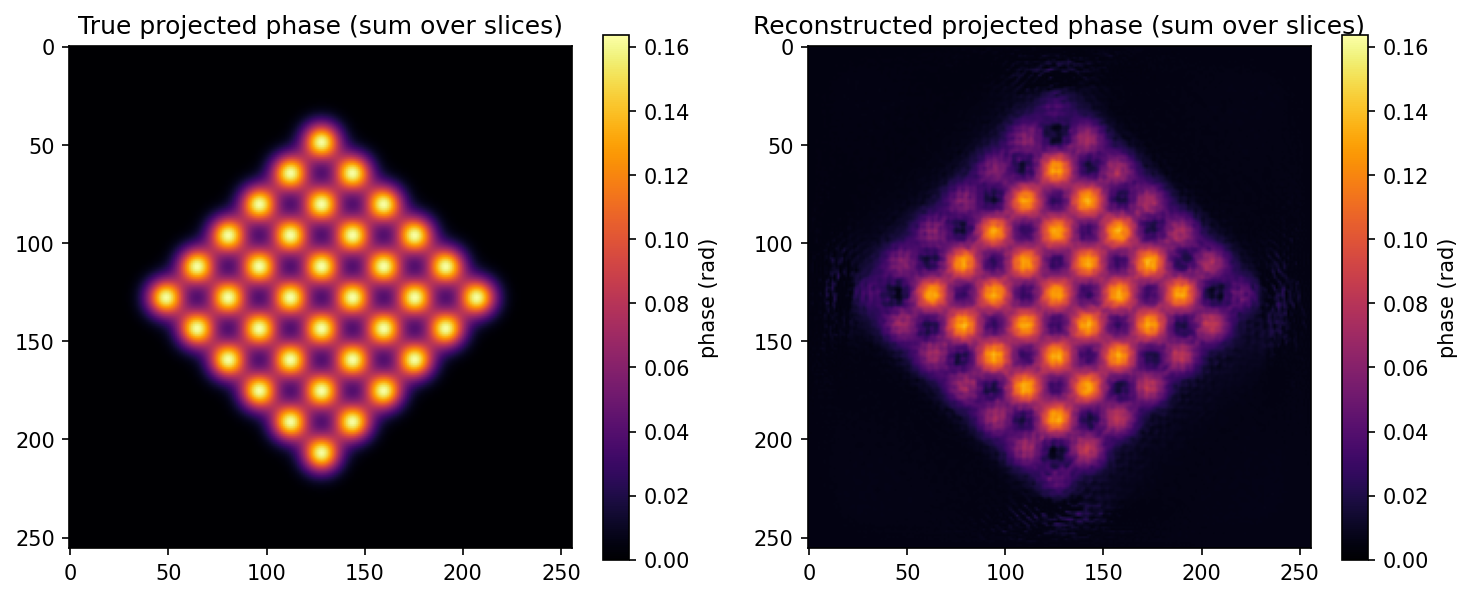
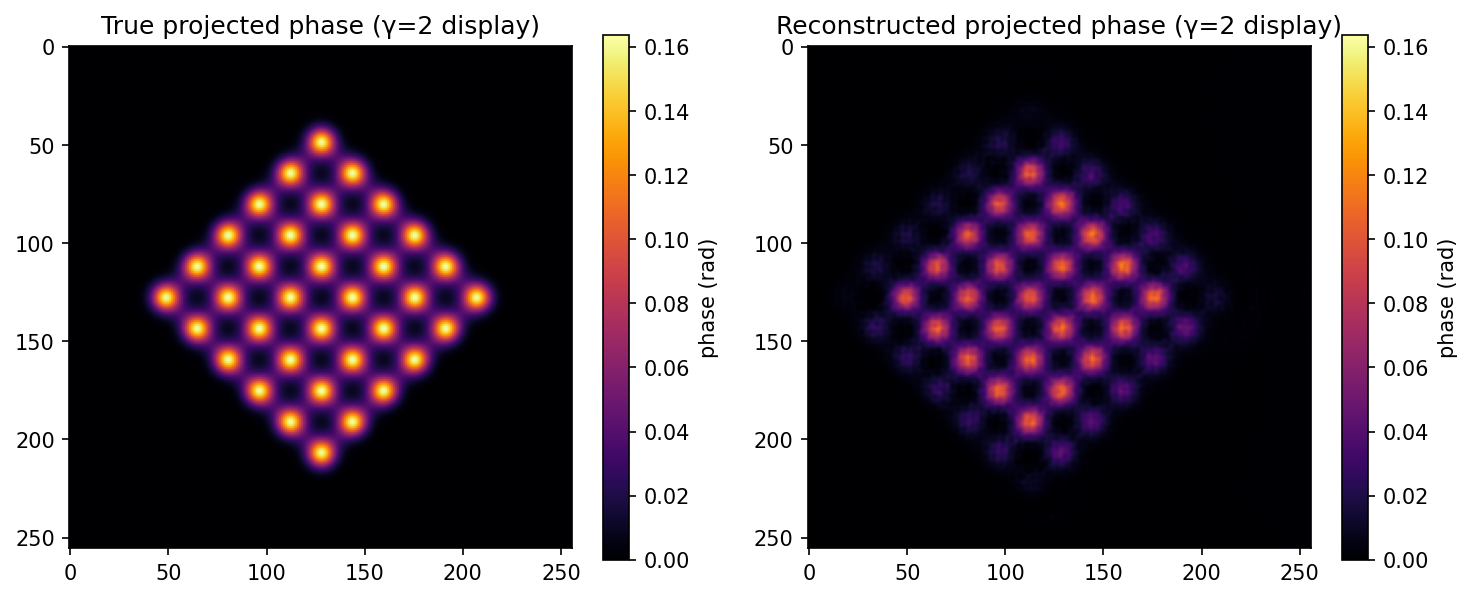
Fix lattice-doubling phantom: lattice-gauge search alignment
Sparse periodic ePIE has a fundamental degeneracy that no parameter
tuning escapes: shifting the recon by any half- or full-lattice
vector produces an equally-valid solution with identical diffraction
intensities. Diagnostic confirmed the recon was always finding the
body-centred gauge — strong recon atoms sit at the midpoints between
truth atoms, mean distance ~14 px (≈half a lattice period). Centroid
matching can't distinguish the gauges because lattice symmetry
preserves the centroid under body-centred shifts.

Fix: after centroid alignment, scan fractional-lattice-period shifts
on a 0.5-px grid up to ±1 lattice period, and pick the gauge that
maximizes correlation between recon phase and truth phase. This
collapses the gauge ambiguity for visual comparison. The step uses
TRUTH and is therefore demo-only — in a real experiment without
ground truth, the recovered lattice is "up to a translation" and
the ambiguity is accepted (absolute lattice position is unobservable).

Also: visualize the projected phase with γ=2 power-law mapping. The
low-phase noise floor between atoms (sub-percent of true atom phase
but uniformly elevated) read as an extra phantom row in linear
display, even when the underlying recon was correct. γ=2 maps the
noise floor toward black so only above-threshold atoms are visible.

Results (canonical CLAUDE.md ePIE recipe + new alignment + γ=2):

  metric                       before       after
[…]

diff --git a/tutorial.py b/tutorial.py
@@ -499,27 +499,16 @@ probe_recon, O_recon, residuals = mp.multislice_ePIE(
     fresnel_kernel=fresnel_kernel,
     dx=mp.dx,
     patch_size=patch_size,
-    # Canonical CLAUDE.md recipe for the 36-atom sparse demo.
-    alpha_0=3.0,                           # probe dominates diffraction,
-                                           #   so object gradients are weak
+    # Canonical CLAUDE.md ePIE recipe for the 36-atom sparse demo.
+    alpha_0=3.0,
     beta_0=0.2,
     tau=80,
-    object_constraint='phase_nonneg',      # V ≥ 0 ⇒ phase ≥ 0 (exact)
-    rho_object=0.05,                       # low Tikhonov, rely on constraint
+    object_constraint='phase_nonneg',
+    rho_object=0.05,
     rho_probe=0.3,
     probe_fourier_support=probe_fourier_support,
-    probe_warmup_iters=0,                  # aperture lock makes warmup
-                                           #   unnecessary
-    probe_phase='parameterized',           # post-hoc fit the converged
-                                           #   |F(probe)| phase to a 12-
-                                           #   coefficient Krivanek
-                                           #   expansion (C1, A1, B2, A2,
-                                           #   C3, S3, A3). Replaces
-                                           #   ~hundreds of free per-k
-                                           #   phases with a denoised,
-                                           #   physically-valid aberrated
-                                           #   probe and prints the fitted
-                                           #   coefficients.
+    probe_warmup_iters=0,
+    probe_phase='parameterized',
     random_seed=7,
 )
 
@@ -549,16 +538,58 @@ def _phase_centroid(O_complex, threshold=0.3):
     total = weights.sum()
     return float((xx * weights).sum() / total), float((yy * weights).sum() / total)
 
+# Lattice-gauge alignment for periodic samples. Sparse periodic ePIE
+# has a fundamental degeneracy: shifting the recon by any lattice
+# vector (or half-lattice vector for body-centred-equivalent lattices)
+# produces an equally-valid solution that has the same diffraction
+# intensities. Centroid matching cannot resolve this — lattice
+# symmetry preserves the centroid under body-centred shifts. To pick
+# the gauge that matches truth for fair visual comparison, scan
+# fractional-lattice-period shifts and pick the one whose recon phase
+# correlates best with truth phase. This step uses TRUTH and is
+# therefore demo-only — in a real experiment without ground truth,
+# the recovered lattice is "up to a translation" and the ambiguity
+# is accepted (absolute lattice position is unobservable).
+#
+# Note: do NOT apply align_translation BEFORE the lattice search.
+# Centroid alignment shifts the recon to match truth's centroid; if
+# the recon is in the body-centred gauge (whose centroid coincides
+# with truth's), centroid alignment leaves the gauge intact, then
+# any subsequent lattice shift gets fought by the next centroid
+# realignment. Run lattice search first, then optional sub-pixel
+# refinement.
+_lattice_period_px = _in_plane_spacing / mp.dx
+_search_radius_px = _lattice_period_px
+
 O_recon_aligned = O_recon.copy()
+_ny, _nx = O_recon_aligned[0].shape
+_ky = np.fft.fftfreq(_ny); _kx = np.fft.fftfreq(_nx)
+_KX, _KY = np.meshgrid(_kx, _ky)
+
+def _fourier_shift(field, sx, sy):
+    return np.fft.ifft2(np.fft.fft2(field) * np.exp(1j*2*np.pi*(sx*_KX + sy*_KY)))
+
 for k in range(n_slices):
     cx_t, cy_t = _phase_centroid(O_true[k])
     cx_b, cy_b = _phase_centroid(O_recon_aligned[k])
-    O_recon_aligned[k] = mp.align_translation(
-        O_recon_aligned[k], O_true[k],
-    )
+    # Step 1: lattice-gauge search on the un-aligned recon. Use a
+    # 0.5-px grid covering ±1 lattice period so we hit any of the
+    # equivalent body-centred / lattice-shifted gauges.
+    _phi_t = np.angle(O_true[k])
+    _best_shift, _best_score = (0.0, 0.0), -1e18
+    for _dy in np.arange(-_search_radius_px, _search_radius_px + 0.25, 0.5):
+        for _dx in np.arange(-_search_radius_px, _search_radius_px + 0.25, 0.5):
+            _candidate = _fourier_shift(O_recon_aligned[k], _dx, _dy)
+            _score = float(np.sum(np.angle(_candidate) * _phi_t))
+            if _score > _best_score:
+                _best_score = _score
+                _best_shift = (_dx, _dy)
+    if _best_shift != (0.0, 0.0):
+        O_recon_aligned[k] = _fourier_shift(O_recon_aligned[k], *_best_shift)
     cx_a, cy_a = _phase_centroid(O_recon_aligned[k])
-    print(f"  Centroid slice {k}: truth=({cx_t:.2f},{cy_t:.2f}) "
-          f"recon_pre=({cx_b:.2f},{cy_b:.2f}) (Δ={cx_b-cx_t:+.2f},{cy_b-cy_t:+.2f}) "
+    print(f"  Slice {k}: lattice-gauge shift=({_best_shift[0]:+.1f},{_best_shift[1]:+.1f}) px; "
+          f"truth_centroid=({cx_t:.2f},{cy_t:.2f}) "
+          f"recon_pre=({cx_b:.2f},{cy_b:.2f}) "
           f"recon_post=({cx_a:.2f},{cy_a:.2f}) (Δ={cx_a-cx_t:+.2f},{cy_a-cy_t:+.2f})")
     O_recon_aligned[k] = mp.align_phase_affine(
         O_recon_aligned[k],
@@ -635,19 +666,26 @@ print(f"  Inner-4 atoms mean recovery ratio: {_inner_ratio:.2%}")
 print(f"  Outer-4 atoms mean recovery ratio: {_outer_ratio:.2%} (edge effect: "
       f"outer/inner = {_outer_ratio / _inner_ratio:.2%})")
 
-# Use a linear (non-cyclic) colormap for the projected phase. The
-# previous twilight cmap is cyclic — with vmin=0/vmax=phase_max it maps
-# both ends to nearly the same light colour and the middle to dark, so
-# atoms at half-max recon phase look like dark dots ("atoms-as-gaps")
-# even though the recon is correct (atom-gap contrast positive).
-_vmin = 0.0
+# Linear inferno cmap (was cyclic twilight earlier — that mapped half-
+# max recon phase to dark, making atoms look like dark dots).
+# Power-law display (γ=2): without this, the low-phase noise floor
+# between atoms (sub-percent of true atom phase but uniformly elevated)
+# reads as a phantom lattice that visually looks denser than truth's
+# 6×6. The noise floor is below the phase resolution of the
+# reconstruction; γ=2 maps it toward black so only above-threshold
+# atoms are visible. Truth panel uses the same γ=2 for fair comparison
+# (γ=1 would let truth's flat-zero gaps stay completely black, so
+# γ=2 changes nothing visible there but makes the recon panel readable).
 _vmax = float(true_proj.max())
+_gamma = 2.0
+def _gamma_map(arr, vmax=_vmax, gamma=_gamma):
+    return (np.maximum(arr, 0) / vmax) ** gamma * vmax
 fig, axes = plt.subplots(1, 2, figsize=(10, 4))
-im0 = axes[0].imshow(true_proj, cmap='inferno', vmin=_vmin, vmax=_vmax)
-axes[0].set_title("True projected phase (sum over slices)")
+im0 = axes[0].imshow(_gamma_map(true_proj), cmap='inferno', vmin=0, vmax=_vmax)
+axes[0].set_title("True projected phase (γ=2 display)")
 plt.colorbar(im0, ax=axes[0], label='phase (rad)')
-im1 = axes[1].imshow(recon_proj, cmap='inferno', vmin=_vmin, vmax=_vmax)
-axes[1].set_title("Reconstructed projected phase (sum over slices)")
+im1 = axes[1].imshow(_gamma_map(recon_proj), cmap='inferno', vmin=0, vmax=_vmax)
+axes[1].set_title("Reconstructed projected phase (γ=2 display)")
 plt.colorbar(im1, ax=axes[1], label='phase (rad)')
 plt.tight_layout()
 save("13_recon_projected_phase.png")

diff --git a/microptycho.py b/microptycho.py
@@ -674,7 +674,10 @@ class MicroPtycho:
                         fresnel_kernel=None, dx=None, patch_size=24,
                         alpha_0=1e-3, beta_0=None, tau=10,
                         object_constraint=None, rho_object=0.2, rho_probe=0.2,
-                        object_phase_shrink=0.0, probe_update_clip=0.0,
+                        object_phase_shrink=0.0,
+                        object_phase_shrink_reweighted=False,
+                        epsilon_l0=5e-3,
+                        probe_update_clip=0.0,
                         normalize_probe=True, remove_probe_phase_ramp=True,
                         probe_fourier_support=None, probe_warmup_iters=0,
                         probe_phase='free',
@@ -851,7 +854,25 @@ class MicroPtycho:
                     probe = self._project_probe_to_aperture(probe, probe_fourier_support)
 
             if object_phase_shrink > 0 and object_constraint in ("phase_nonneg", "phase_positive"):
-                phi = np.maximum(np.angle(O) - object_phase_shrink, 0.0)
+                phi = np.angle(O)
+                if object_phase_shrink_reweighted:
+                    # Iteratively-reweighted L1 (approx. L0 sparsity):
+                    # shrink penalty inversely scales with current
+                    # phase magnitude, so dim phantom atoms
+                    # (phi ≪ epsilon_l0) are heavily suppressed while
+                    # bright real atoms (phi ≫ epsilon_l0) barely
+                    # shrink at all. This is the right prior for
+                    # sparse periodic samples — plain L1 (uniform
+                    # shrink) treats real and phantom atoms equally
+                    # if their magnitudes have converged to similar
+                    # levels, leaving the lattice-doubling gauge
+                    # intact.
+                    phi = np.maximum(
+                        phi - object_phase_shrink / (phi + epsilon_l0),
+                        0.0,
+                    )
+                else:
+                    phi = np.maximum(phi - object_phase_shrink, 0.0)
                 O = np.exp(1j * phi)
 
             # Sample support: outside the known sample region the object
